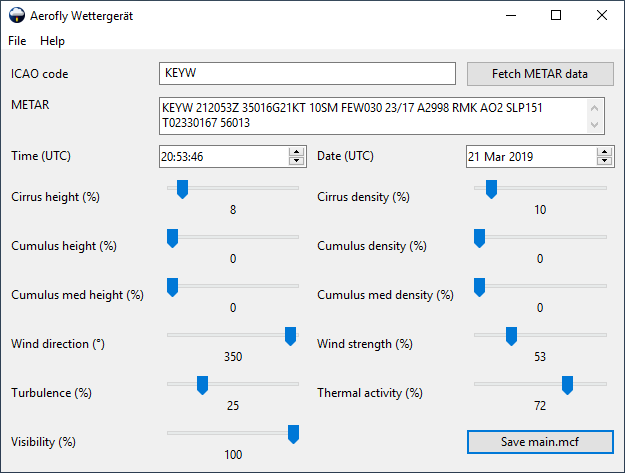
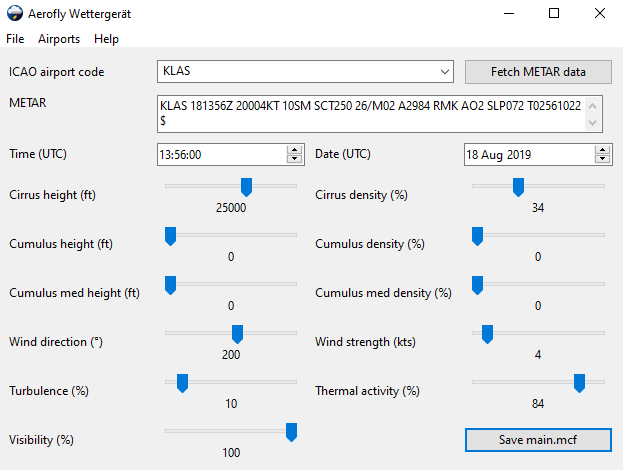
Switch GUI to feet and kts values

diff --git a/src/WettergeraetDesktop/Frame.cpp b/src/WettergeraetDesktop/Frame.cpp
@@ -141,16 +141,16 @@ Frame::Frame(const wxString& title, int argc, char * argv[]) : wxFrame(nullptr, 
 			}
 			wxBoxSizer *hbox8 = new wxBoxSizer(wxHORIZONTAL);
 			{
-				wxStaticText *clouds0HeightLabel = new wxStaticText(panel, wxID_ANY, cloudName + " height (%)");
-				hbox8->Add(clouds0HeightLabel, 1, wxRIGHT | wxALIGN_CENTER_VERTICAL, labelBorder);
+				wxStaticText *cloudsHeightLabel = new wxStaticText(panel, wxID_ANY, cloudName + " height (ft)");
+				hbox8->Add(cloudsHeightLabel, 1, wxRIGHT | wxALIGN_CENTER_VERTICAL, labelBorder);
 
-				this->clouds[i].heightInput = new wxSlider(panel, Frame::EL_CTRL_SLIDER, 50, 0, 100, wxDefaultPosition, wxDefaultSize, wxSL_HORIZONTAL | wxSL_VALUE_LABEL);
+				this->clouds[i].heightInput = new wxSlider(panel, Frame::EL_CTRL_SLIDER, 20000, 0, 40000, wxDefaultPosition, wxDefaultSize, wxSL_HORIZONTAL | wxSL_VALUE_LABEL);
 				hbox8->Add(this->clouds[i].heightInput, 1, wxALIGN_CENTER_VERTICAL);
 
 				hbox8->Add(10, -1);
 
-				wxStaticText *clouds0DensityLabel = new wxStaticText(panel, wxID_ANY, cloudName + " density (%)");
-				hbox8->Add(clouds0DensityLabel, 1, wxALIGN_CENTER_VERTICAL, labelBorder);
+				wxStaticText *cloudsDensityLabel = new wxStaticText(panel, wxID_ANY, cloudName + " density (%)");
+				hbox8->Add(cloudsDensityLabel, 1, wxALIGN_CENTER_VERTICAL, labelBorder);
 
 				this->clouds[i].densityInput = new wxSlider(panel, Frame::EL_CTRL_SLIDER, 50, 0, 100, wxDefaultPosition, wxDefaultSize, wxSL_HORIZONTAL | wxSL_VALUE_LABEL);
 				hbox8->Add(this->clouds[i].densityInput, 1, wxLEFT | wxALIGN_CENTER_VERTICAL);
@@ -170,10 +170,10 @@ Frame::Frame(const wxString& title, int argc, char * argv[]) : wxFrame(nullptr, 
 
 			hbox5->Add(10, -1);
 
-			wxStaticText *windStrengthLabel = new wxStaticText(panel, wxID_ANY, wxT("Wind strength (%)"));
+			wxStaticText *windStrengthLabel = new wxStaticText(panel, wxID_ANY, wxT("Wind strength (kts)"));
 			hbox5->Add(windStrengthLabel, 1, wxALIGN_CENTER_VERTICAL, labelBorder);
 
-			this->windStrengthInput = new wxSlider(panel, Frame::EL_CTRL_SLIDER, 50, 0, 200, wxDefaultPosition, wxDefaultSize, wxSL_HORIZONTAL | wxSL_VALUE_LABEL);
+			this->windStrengthInput = new wxSlider(panel, Frame::EL_CTRL_SLIDER, 4, 0, 48, wxDefaultPosition, wxDefaultSize, wxSL_HORIZONTAL | wxSL_VALUE_LABEL);
 			hbox5->Add(this->windStrengthInput, 1, wxLEFT | wxALIGN_CENTER_VERTICAL);
 		}
 		vbox->Add(hbox5, 0, wxEXPAND | wxLEFT | wxRIGHT, 10);
@@ -202,10 +202,11 @@ Frame::Frame(const wxString& title, int argc, char * argv[]) : wxFrame(nullptr, 
 		// build hbox7
 		wxBoxSizer *hbox7 = new wxBoxSizer(wxHORIZONTAL);
 		{
-			wxStaticText *visbilityLabel = new wxStaticText(panel, wxID_ANY, wxT("Visibility (%)"));
+			wxStaticText *visbilityLabel = new wxStaticText(panel, wxID_ANY, wxT("Visibility (m)"));
 			hbox7->Add(visbilityLabel, 1, wxRIGHT | wxALIGN_CENTER_VERTICAL, labelBorder);
 
-			this->visbilityInput = new wxSlider(panel, Frame::EL_CTRL_SLIDER, 50, 0, 100, wxDefaultPosition, wxDefaultSize, wxSL_HORIZONTAL | wxSL_VALUE_LABEL);
+			this->visbilityInput = new wxSlider(panel, Frame::EL_CTRL_SLIDER, 10000, 0, 20000, wxDefaultPosition, wxDefaultSize, wxSL_HORIZONTAL | wxSL_VALUE_LABEL);
+			this->visbilityInput->SetTickFreq(20);
 			hbox7->Add(this->visbilityInput, 1, wxALIGN_CENTER_VERTICAL);
 
 			hbox7->Add(10, -1);
@@ -260,15 +261,15 @@ void Frame::fromObjectToInput()
 	this->utcDateInput->SetValue(this->utcDateValue);
 
 	this->windDirectionInput->SetValue(this->aerofly.windDirection);
-	this->windStrengthInput->SetValue(ceil(this->aerofly.windStrength * 100));
+	this->windStrengthInput->SetValue(ceil(this->aerofly.getWindKts()));
 
 	this->windTurbulenceInput->SetValue(ceil(this->aerofly.windTurbulence * 100));
 	this->thermalActivityInput->SetValue(ceil(this->aerofly.thermalActivity * 100));
 
-	this->visbilityInput->SetValue(ceil(this->aerofly.visibility * 100));
+	this->visbilityInput->SetValue(floor(this->aerofly.getVisbilityMeters()));
 
 	for (int i = 0; i < 3; ++i) {
-		this->clouds[i].heightInput->SetValue(ceil(this->aerofly.clouds[i].height * 100));
+		this->clouds[i].heightInput->SetValue(floor(this->aerofly.getCloudHeightFt(i)));
 		this->clouds[i].densityInput->SetValue(ceil(this->aerofly.clouds[i].density * 100));
 	}
 }
@@ -283,17 +284,15 @@ void Frame::fromInputToObject()
 	auto time = this->utcTimeInput->GetValue();
 	this->aerofly.hours = time.GetHour() + time.GetMinute() / 60.0 + time.GetSecond() / (60.0 * 60.0);
 
-	this->aerofly.windDirection = this->windDirectionInput->GetValue();
-	this->aerofly.windStrength = this->windStrengthInput->GetValue() / 100.0;
+	this->aerofly.setWind(this->windStrengthInput->GetValue(), this->windDirectionInput->GetValue());
 
 	this->aerofly.windTurbulence = this->windTurbulenceInput->GetValue() / 100.0;
 	this->aerofly.thermalActivity = this->thermalActivityInput->GetValue() / 100.0;
 
-	this->aerofly.visibility = this->visbilityInput->GetValue() / 100.0;
+	this->aerofly.setVisibility(this->visbilityInput->GetValue());
 
 	for (int i = 0; i < 3; ++i) {
-		this->aerofly.clouds[i].height = this->clouds[i].heightInput->GetValue() / 100.0;
-		this->aerofly.clouds[i].density = this->clouds[i].densityInput->GetValue() / 100.0;
+		this->aerofly.setCloudPercent(i, this->clouds[i].heightInput->GetValue(), this->clouds[i].densityInput->GetValue() / 100.0);
 	}
 }
 

diff --git a/src/WettergeraetLib/AeroflyWeather.cpp b/src/WettergeraetLib/AeroflyWeather.cpp
@@ -66,7 +66,6 @@ void AeroflyWeather::setWind(double kts, unsigned int degrees)
 	this->windDirection = BoShed::rotatingValue(degrees, 359);
 	this->windStrength = BoShed::percent(combinedWindForce);
 }
-
 void AeroflyWeather::setTurbulence(double windSpeed, double gustSpeed, unsigned int degreesFrom, unsigned int degreesTo, char const conditions[4][6])
 {
 	double degreesRange = std::abs((degreesTo - degreesFrom) / 360.0);
@@ -128,10 +127,32 @@ void AeroflyWeather::setCloud(unsigned short index, double baseFeetAgl, unsigned
 		densityMinimum--;
 	}
 
-	this->clouds[index].density = (densityMinimum + (
+	auto density = (densityMinimum + (
 		(rand() % 100 / 100.0) * (densityMaximum - densityMinimum)
 		)) / this->maxCloudsDensity;
+	this->setCloudPercent(index, baseFeetAgl, density);
+}
+
+void AeroflyWeather::setCloudPercent(unsigned short index, double baseFeetAgl, double percent)
+{
+	this->clouds[index].density = percent;
 	this->clouds[index].height = baseFeetAgl / this->maxCloudsHeight;
+}
+
+double AeroflyWeather::getWindKts()
+{
+	// f(x) = 8 * (x + x^2)
+	return 8 * (this->windStrength + this->windStrength * this->windStrength);
+}
+
+double AeroflyWeather::getCloudHeightFt(unsigned short index)
+{
+	return this->clouds[index].height * this->maxCloudsHeight;
+}
+
+double AeroflyWeather::getVisbilityMeters()
+{
+	return this->visibility * this->maxVisibility;
 }
 
 void AeroflyWeather::setFromMetar(const MetarParserSimple& metar)

diff --git a/src/WettergeraetLib/AeroflyWeather.h b/src/WettergeraetLib/AeroflyWeather.h
@@ -60,6 +60,17 @@ public:
 	// Set cloud with index 0..2. Density is between 0..8.
 	void setCloud(unsigned short index, double baseFeetAgl, unsigned short densityMinimum, unsigned short densityMaximum);
 
+	// Set cloud with index 0..2. Density is between 0.0..1.0.
+	void setCloudPercent(unsigned short index, double baseFeetAgl, double percent);
+
+	// Convert wind percent into kts
+	double getWindKts();
+
+	// Get cloud height in ft
+	double getCloudHeightFt(unsigned short index);
+
+	double getVisbilityMeters();
+
 	// Populate all values from a MetarParser object
 	void setFromMetar(const MetarParserSimple& metar);
 

diff --git a/src/WettergeraetLib/Argumentor.cpp b/src/WettergeraetLib/Argumentor.cpp
@@ -3,7 +3,7 @@
 #include <sstream>
 #include <iterator>
 
-const char* Argumentor::APP_VERSION = "1.2.10";
+const char* Argumentor::APP_VERSION = "1.3.0";
 #if _WIN64
 const char* Argumentor::APP_TARGET = "64-bit";
 #else

diff --git a/CHANGELOG.md b/CHANGELOG.md
@@ -1,6 +1,11 @@
 Change log
 ==========
 
+1.3.0
+-----
+
+* 🎁 Switch GUI to feet and kts values
+
 1.2.10
 ------
 
